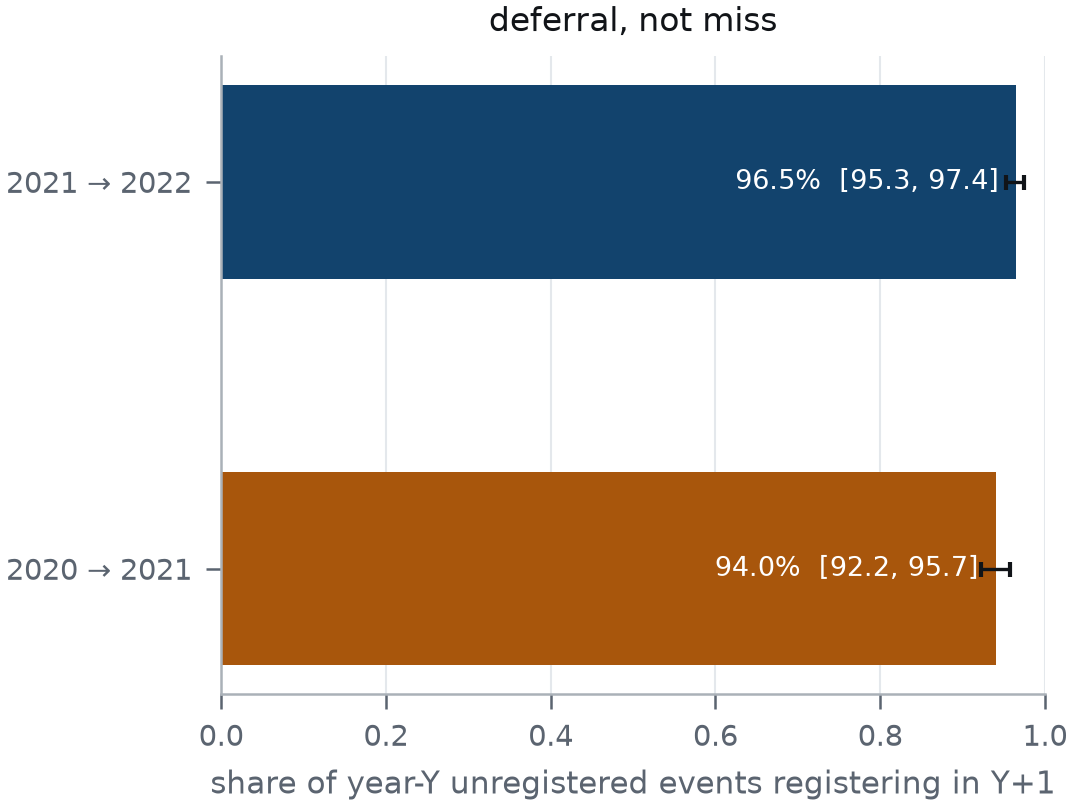
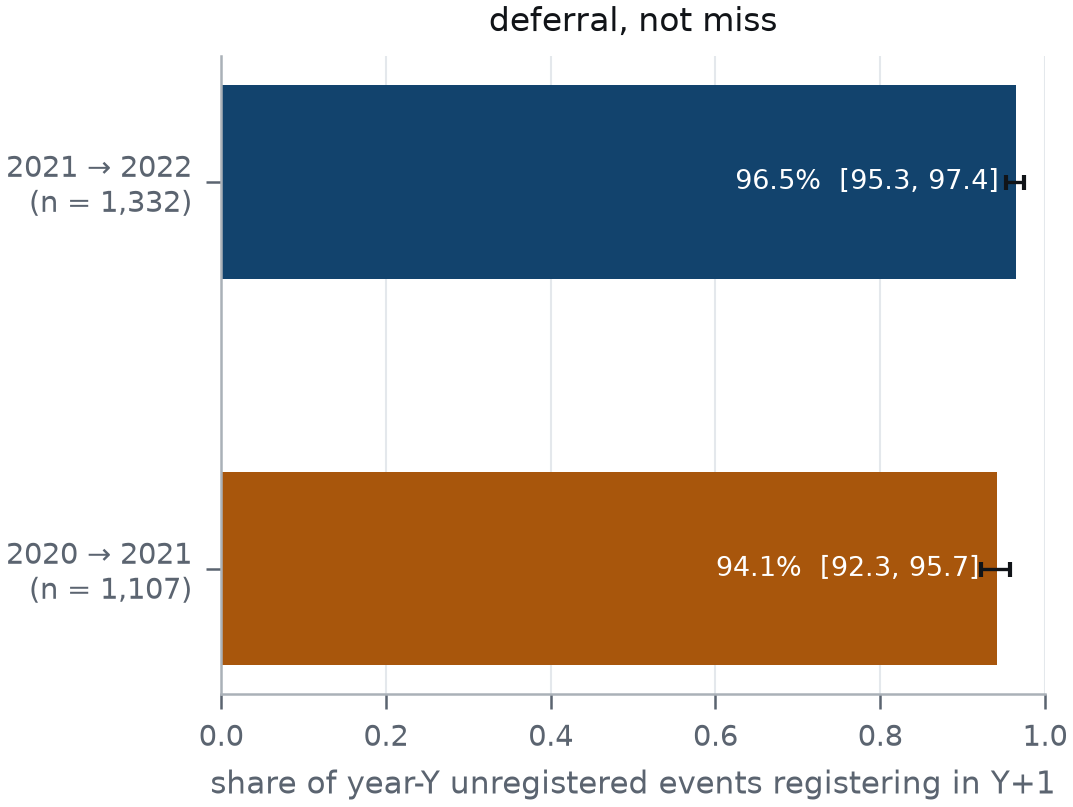
TB01-P7 item 4: re-derive the 2020 to 2021 deferral rate
The 2020 direction was cited from P3 because that package's per-event table was not
retained. It is now computed from scratch: the DETER polygons of all 1,107 events
unregistered in 2020 were refetched from the WFS, their 2020-2021 interior angular change
extracted, and compared with the next year's own state threshold. Result 94.1 %
[92.3, 95.7] against P3's reported 94.0 % [92.2, 95.7] - a clean reproduction.

Fig. 3 now shows both directions as re-derived with sample sizes and drops the 'cited'
label; the abstract, section 4.3 and the conclusions carry 94.1 % in place of 94.0 %.

Table 1's empty 2020 cell for the high-confidence variant gains a footnote giving the
reason: the 2020 event table records the high-confidence alert date but clear_post was
never extracted under it.

Changed region(s): [[0.0, 0.1859, 0.1845, 0.2788], [0.0, 0.6506, 0.1845, 0.7435], [0.6766, 0.6815, 0.9226, 0.7125]]

diff --git a/aef_explore/paper/code/numbers_trace.py b/aef_explore/paper/code/numbers_trace.py
@@ -110,10 +110,21 @@ def main():
           "| quantity | value | key |", "|---|---|---|"]
     for q, v, k in rows_primary():
         L.append(f"| {q} | **{v}** | {k} |")
+    d20 = N["h4_2020"]["share"]
+    d21 = N["h4"]["share"]
     L += ["",
+          "### Deferral, both directions re-derived", "",
+          "| direction | n | share registering the next year | source |", "|---|---|---|---|",
+          f"| 2020 → 2021 | {N['h4_2020']['n']:,} | **{d20['point']*100:.1f} % "
+          f"[{d20['lo']*100:.1f}, {d20['hi']*100:.1f}]** | `code/deferral_2020.py`, "
+          f"`code/deferral_ci.py` (P3 reported 94.0 % [92.2, 95.7]) |",
+          f"| 2021 → 2022 | {N['h4']['n']:,} | **{d21['point']*100:.1f} % "
+          f"[{d21['lo']*100:.1f}, {d21['hi']*100:.1f}]** | `numbers.json:h4` "
+          f"(P3 reported 96.5 % [95.3, 97.5]) |",
+          "",
           "## 3. Package values carried over (not re-derived)", "",
           "| quantity | value | package |", "|---|---|---|",
-          f"| 2020-unregistered events registering in 2021 | 94.0 % [92.2, 95.7] | `P3/P3_results.md` (raw 2020 deferral table not retained) |",
+
           f"| naive first-registration misattribution, 2020 / 2021 | 2.78 % / 3.48 % | `P3/P3_results.md` |",
           f"| two-year window residual misattribution | 0.12 % | `P3/P3_results.md` |",
           f"| clear_post AUC for non-registration, 2020 / 2021 | 0.729 / 0.712 | `P3/P3_results.md` |",
@@ -149,6 +160,12 @@ def main():
           "(2021), and 0.620 on 389 with 0.500 on 50 gives 0.606 on 439 (2020). Bins are now "
           "written in interval notation in the text, the figure and Table S2. | ambiguous "
           "wording |",
+          "| P7 item 4 | The 2020 \u2192 2021 deferral rate was cited from P3 because that "
+          "package's per-event table was not retained. It is now re-derived from scratch "
+          "(polygons refetched, 2020\u20132021 angular change recomputed against the next "
+          "year's state threshold): **94.1 % [92.3, 95.7]** on 1,107 events, against P3's "
+          "94.0 % [92.2, 95.7]. Fig. 3 no longer labels either direction as cited. | both "
+          "directions now re-derived |",
           "| P7 item 3 | Four wording changes, no numbers: the abstract now states the offset "
           "finding as the change signal exceeding the threshold in a 50-150 m ring but not "
           "inside the polygon; Section 1.1 says the embedding draws on optical, radar and "

diff --git a/aef_explore/paper/code/fig_results.py b/aef_explore/paper/code/fig_results.py
@@ -126,17 +126,17 @@ def f2():
 def f3():
     n = numbers()
     fig, ax = plt.subplots(figsize=(W1, W1 * 0.78))
-    h = n["h4"]["share"]
-    vals = [("2020 → 2021", 0.940, 0.922, 0.957, C["2020"], "P3 (cited)"),
-            ("2021 → 2022", h["point"], h["lo"], h["hi"], C["2021"], "re-derived")]
-    for i, (lab, v, lo, hi, col, src) in enumerate(vals):
+    h21, h20 = n["h4"]["share"], n["h4_2020"]["share"]
+    vals = [("2020 → 2021", h20["point"], h20["lo"], h20["hi"], C["2020"], n["h4_2020"]["n"]),
+            ("2021 → 2022", h21["point"], h21["lo"], h21["hi"], C["2021"], n["h4"]["n"])]
+    for i, (lab, v, lo, hi, col, nn) in enumerate(vals):
         ax.barh(i, v, 0.5, color=col)
         ax.errorbar(v, i, xerr=[[v - lo], [hi - v]], color=INK, lw=0.8, capsize=1.8)
         ax.annotate(f"{v * 100:.1f}%  [{lo * 100:.1f}, {hi * 100:.1f}]", (v, i),
                     textcoords="offset points", xytext=(-4, 0), ha="right", va="center",
                     fontsize=6.6, color="white")
     ax.set_yticks(range(len(vals)))
-    ax.set_yticklabels([v[0] for v in vals])
+    ax.set_yticklabels([f"{v[0]}\n(n = {v[5]:,})" for v in vals])
     ax.set_xlim(0, 1.0)
     ax.set_xlabel("share of year-Y unregistered events registering in Y+1")
     ax.set_title("deferral, not miss", color=INK)

diff --git a/aef_explore/paper/code/deferral_ci.py b/aef_explore/paper/code/deferral_ci.py
@@ -1,0 +1,20 @@
+"""P7 item 4 -- block-bootstrap CI for the re-derived 2020 -> 2021 deferral rate.
+
+Merges the result into numbers.json as `h4_2020`, beside the 2021 -> 2022 value that
+run_numbers.py already produces, so both directions of Fig. 3 are re-derived rather than cited.
+"""
+import json
+import pandas as pd
+import p2_model as M
+
+OUT = "aef_explore/paper/numbers.json"
+
+d = pd.read_csv("aef_explore/paper/code/deferral_2020.csv")
+d = d[d["ang_2020_2021_deg"].notna()].copy()
+res = dict(n=int(len(d)),
+           share=M.boot_ci(32, d, "share", "area_ha", "area_ha", "registered"))
+n = json.load(open(OUT))
+n["h4_2020"] = res
+json.dump(n, open(OUT, "w"), indent=1)
+print("2020 -> 2021 deferral: %.4f [%.4f, %.4f] on n = %d"
+      % (res["share"]["point"], res["share"]["lo"], res["share"]["hi"], res["n"]))

diff --git a/aef_explore/paper/MANUSCRIPT.md b/aef_explore/paper/MANUSCRIPT.md
@@ -19,7 +19,7 @@ followed by five or more clear Sentinel-2 observations, and falls to 51.0 % and 
 events followed by two or fewer, a gap of 46.5 percentage points [39.0, 53.6] and 37.5
 [31.3, 43.9]. The deficit is specifically optical: among low-observation events, registration
 is lowest where Sentinel-1 coverage is densest, so radar acquisition does not compensate.
-Unregistered events are deferred rather than missed, 94.0 % and 96.5 % registering the
+Unregistered events are deferred rather than missed, 94.1 % and 96.5 % registering the
 following year. For nearly half of unregistered events the change signal exceeds the
 threshold in a 50–150 m ring around the polygon but not inside it. A Congo Basin comparison cannot presently answer the
 same question: the low-observation stratum available for testing is an artefact of the alert
@@ -480,12 +480,16 @@ that includes zero.
 | main (τ = state p90) | 0.083 [0.000, 0.172] | 0.112 [0.010, 0.252] |
 | τ = state p85 | ✘ 0.069 [−0.024, 0.160] | 0.138 [0.012, 0.296] |
 | τ = state p95 | ✘ 0.059 [−0.009, 0.135] | 0.120 [0.022, 0.232] |
-| high-confidence alerts only | 0.113 [0.034, 0.199] | not available |
+| high-confidence alerts only | 0.113 [0.034, 0.199] | not available † |
 | RADD-only dating | 0.217 [0.111, 0.327] | 0.318 [0.221, 0.419] |
 | excluding optically late events | 0.252 [0.107, 0.428] | 0.289 [0.150, 0.455] |
 | area < 5 ha (n low bin = 2 / 5) | ✘ 0.003 [−0.788, 0.961] | ✘ 0.476 [−0.331, 1.126] |
 | area 5–25 ha | 0.165 [0.058, 0.273] | 0.197 [0.085, 0.345] |
 | area ≥ 25 ha | 0.146 [0.035, 0.279] | 0.181 [0.059, 0.402] |
+
+† The high-confidence variant cannot be computed for 2020. The 2020 event table records the
+high-confidence alert date but `clear_post` was never extracted under it, and recomputing it
+would require re-running the monthly observation extraction for that year.
 
 The coefficient is positive in every variant of both years and its interval excludes zero in
 thirteen of sixteen estimable cases; the exceptions are the two threshold variants in 2021 and
@@ -498,8 +502,10 @@ on the quartile pattern, not on the partial coefficient.
 
 Events that fail to register in their own year almost always register in the next. Of the 2021
 events unregistered in 2021, 96.5 % [95.3, 97.4] register in 2022 against a separately
-estimated 2021–2022 threshold; of the 2020 events unregistered in 2020, 94.0 % [92.2, 95.7]
-register in 2021 (Fig. 3). Roughly one event in 800 registers in neither year. Because
+estimated 2021–2022 threshold; of the 1,107 events unregistered in 2020, 94.1 %
+[92.3, 95.7] register in 2021 (Fig. 3). Both directions are re-derived here, the 2020
+direction by refetching the reference polygons and recomputing the 2020–2021 angular change
+against the next year's own state threshold. Roughly one event in 800 registers in neither year. Because
 registration does not depend on the event date, this result is invariant to the dating rule.
 
 The residual matters for how the result should be described. An event that registers in
@@ -818,7 +824,7 @@ governed by the supply of clear optical observation after the event. Registratio
 Radar acquisition does not compensate: among low-observation events, registration falls as
 Sentinel-1 density rises, in both years and in a test pre-registered on one of them.
 
-The failure is a deferral rather than an omission. Between 94.0 % and 96.5 % of events not
+The failure is a deferral rather than an omission. Between 94.1 % and 96.5 % of events not
 registered in their own year register in the next, and roughly one in 800 registers in
 neither. Users therefore lose a year, not an event — but they lose it selectively, in the last
 quarter of the year and in the cloudiest places, which is precisely the structure that
@@ -849,8 +855,8 @@ into within-month radar-density quartiles. Both panels use the primary dating ru
 and intervals are 0.5° block bootstraps. Double column.
 
 **Fig. 3.** Deferral rather than omission: the share of events unregistered in year *Y* that
-register in *Y*+1, against an independently estimated next-year threshold. The 2021→2022 value
-is re-derived here; the 2020→2021 value is carried from the earlier stage. Single column.
+register in *Y*+1, against an independently estimated next-year threshold. Both directions are
+re-derived, with 0.5° block-bootstrap intervals. Single column.
 
 **Fig. 4.** Clearings that the reference map records late. (a) Registration for events DETER
 mapped in the target year against events it mapped only the following year but that RADD

diff --git a/aef_explore/paper/NUMBERS_TRACE.md b/aef_explore/paper/NUMBERS_TRACE.md
@@ -56,11 +56,17 @@ Point estimates reproduce throughout; the bootstrap intervals do not always, and
 | 2020 H7(b)′ SAR-sparse stratum | **0.648 [0.573, 0.714] (n = 270)** | `2020_date_upper.h7b_prime.lo` |
 | 2020 zero bin | **0.500 (n = 50)** | `2020_date_upper.curve[0]` |
 
+### Deferral, both directions re-derived
+
+| direction | n | share registering the next year | source |
+|---|---|---|---|
+| 2020 → 2021 | 1,107 | **94.1 % [92.3, 95.7]** | `code/deferral_2020.py`, `code/deferral_ci.py` (P3 reported 94.0 % [92.2, 95.7]) |
+| 2021 → 2022 | 1,332 | **96.5 % [95.3, 97.4]** | `numbers.json:h4` (P3 reported 96.5 % [95.3, 97.5]) |
+
 ## 3. Package values carried over (not re-derived)
 
 | quantity | value | package |
 |---|---|---|
-| 2020-unregistered events registering in 2021 | 94.0 % [92.2, 95.7] | `P3/P3_results.md` (raw 2020 deferral table not retained) |
 | naive first-registration misattribution, 2020 / 2021 | 2.78 % / 3.48 % | `P3/P3_results.md` |
 | two-year window residual misattribution | 0.12 % | `P3/P3_results.md` |
 | clear_post AUC for non-registration, 2020 / 2021 | 0.729 / 0.712 | `P3/P3_results.md` |
@@ -88,6 +94,7 @@ Point estimates reproduce throughout; the bootstrap intervals do not always, and
 |---|---|---|
 | P7 item 1 | Section 4.4 said that excluding optically late events *raises* the 2021 gap from 46.5 to 40.6 points. It lowers it. The value 40.6 (`robust_2021_date_upper`, row `no radd_only`) is unchanged; only the direction word was wrong. | 40.6 < 46.5 |
 | P7 item 2 | The sentence reporting the curve bin by bin did not say that the plotted bins exclude the exactly-zero stratum, so 0.536 for the first plotted bin appeared to contradict the H1″ value of 0.510 for `clear_post` ≤ 2. No number changed: 0.536 on 323 events pooled with 0.289 on 38 gives 0.510 on 361 (2021), and 0.620 on 389 with 0.500 on 50 gives 0.606 on 439 (2020). Bins are now written in interval notation in the text, the figure and Table S2. | ambiguous wording |
+| P7 item 4 | The 2020 → 2021 deferral rate was cited from P3 because that package's per-event table was not retained. It is now re-derived from scratch (polygons refetched, 2020–2021 angular change recomputed against the next year's state threshold): **94.1 % [92.3, 95.7]** on 1,107 events, against P3's 94.0 % [92.2, 95.7]. Fig. 3 no longer labels either direction as cited. | both directions now re-derived |
 | P7 item 3 | Four wording changes, no numbers: the abstract now states the offset finding as the change signal exceeding the threshold in a 50-150 m ring but not inside the polygon; Section 1.1 says the embedding draws on optical, radar and ancillary inputs rather than asserting optical dominance before the evidence in Section 4.2; Section 4.2 explains the radar-density pattern by the fixed acquisition plan and orbit overlap instead of orbital latitude; Section 3.1 marks the RADD re-detection account as an untested hypothesis. | claims outrunning evidence |
 | P7 item 7 | Title set to "When does an annual embedding register a clearing? Optical observation supply and the temporal fidelity of AlphaEarth annual embeddings in the Brazilian Amazon, 2020-2021"; the three candidates were removed from the manuscript comment. | author's choice |
 | P7 item 1 | Discussion sections renumbered: two sections were both numbered 5.4. "Relation to the alert-latency literature" is now 5.5 and "What an annual embedding field is, and is not, for" is now 5.6. No cross-reference in the text pointed at either. | duplicate numbering |
